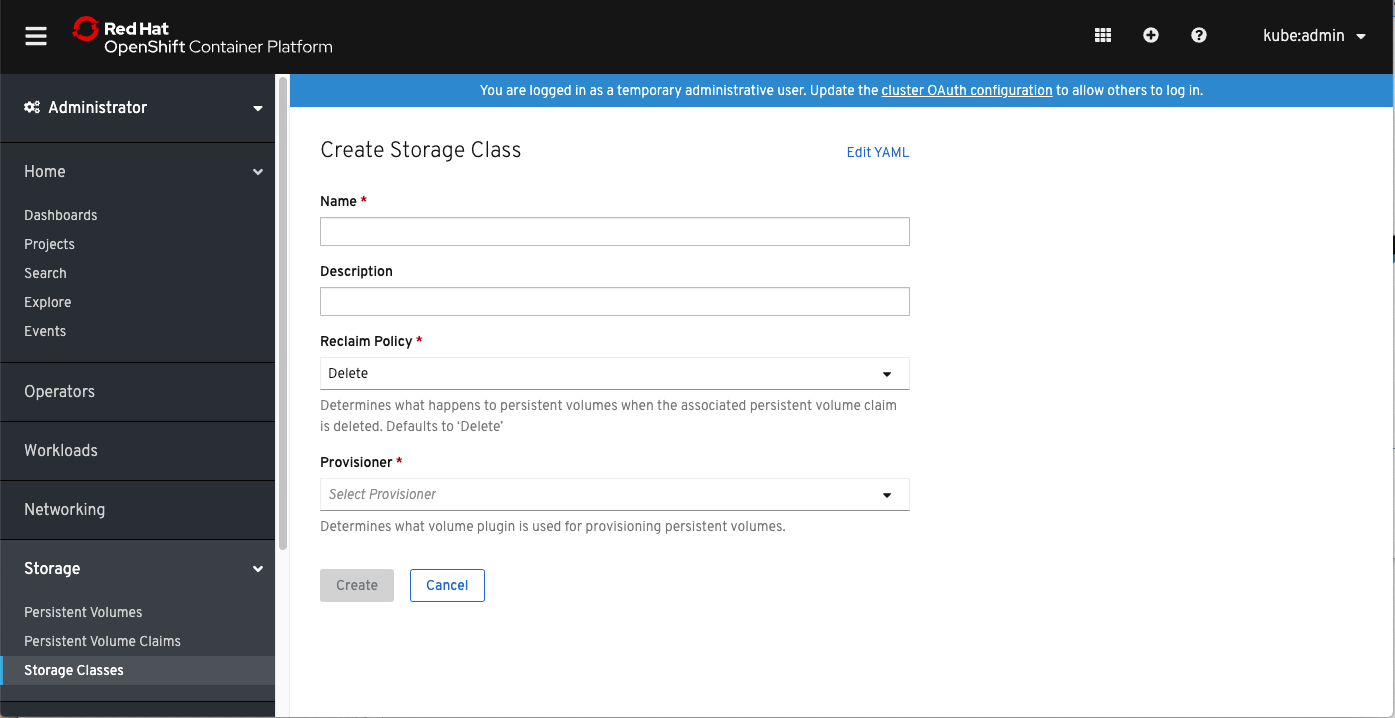
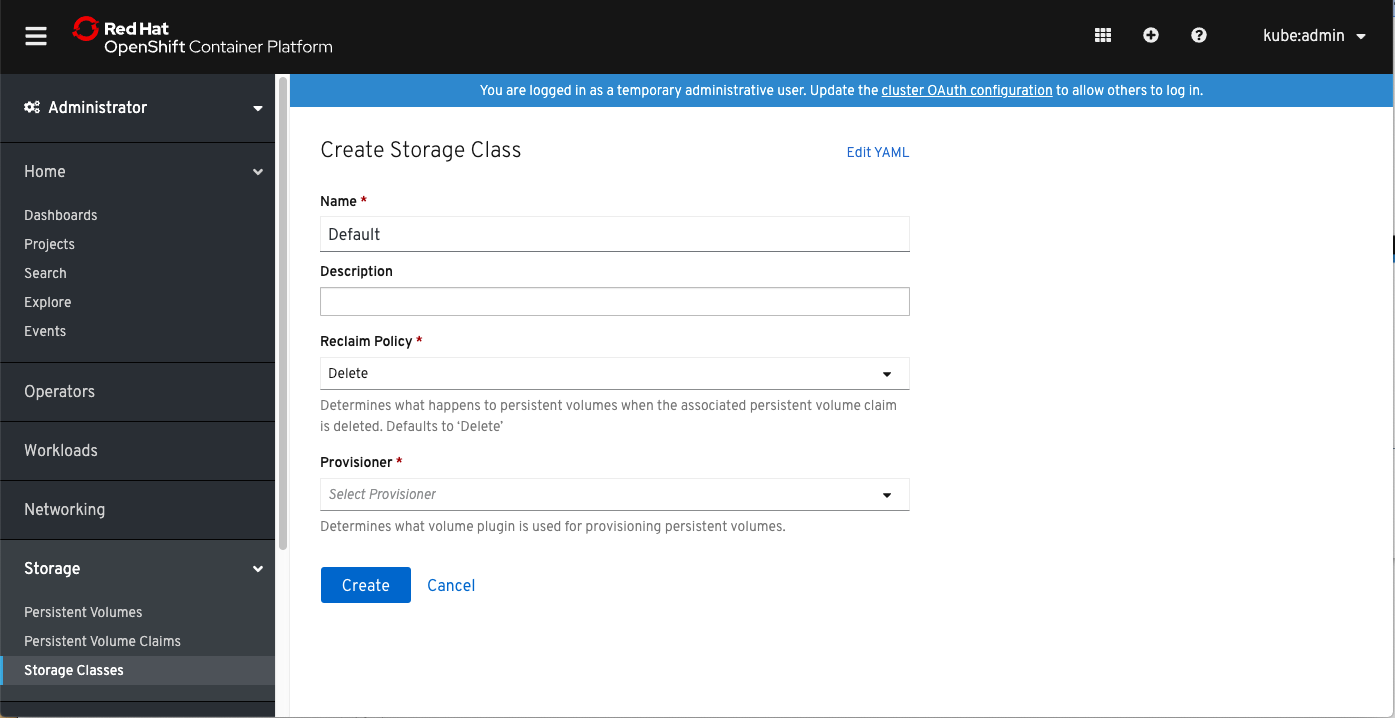
text changes in create storage class popover

Changed region(s): [[0.2158, 0.766, 0.3391, 0.8579], [0.2158, 0.3064, 0.2774, 0.337]]

diff --git a/web-console/knikubevirt/NoStorageClassAvailable/NoStorageClassAvailable.md b/web-console/knikubevirt/NoStorageClassAvailable/NoStorageClassAvailable.md
@@ -19,7 +19,7 @@ The popover will have an action link which will take the user to the ‘Create S
 
 In the VM list view, the status of the VM would still be pending untill the user would create a storage class and mark it as default.
 
-Clicking on the ‘pending’ status of the VM will show a popover with more info and an action link which will direct the user to the storage class section of the ui and allow them to create a new one there.
+Clicking on the ‘pending’ status of the VM will show a popover with more info and an action link which will direct the user to the storage class page with the Storage class already marked as 'Default' and allow them to create a new one there.
 
 ![vmlist with popover](img/vmlist.png)
 
